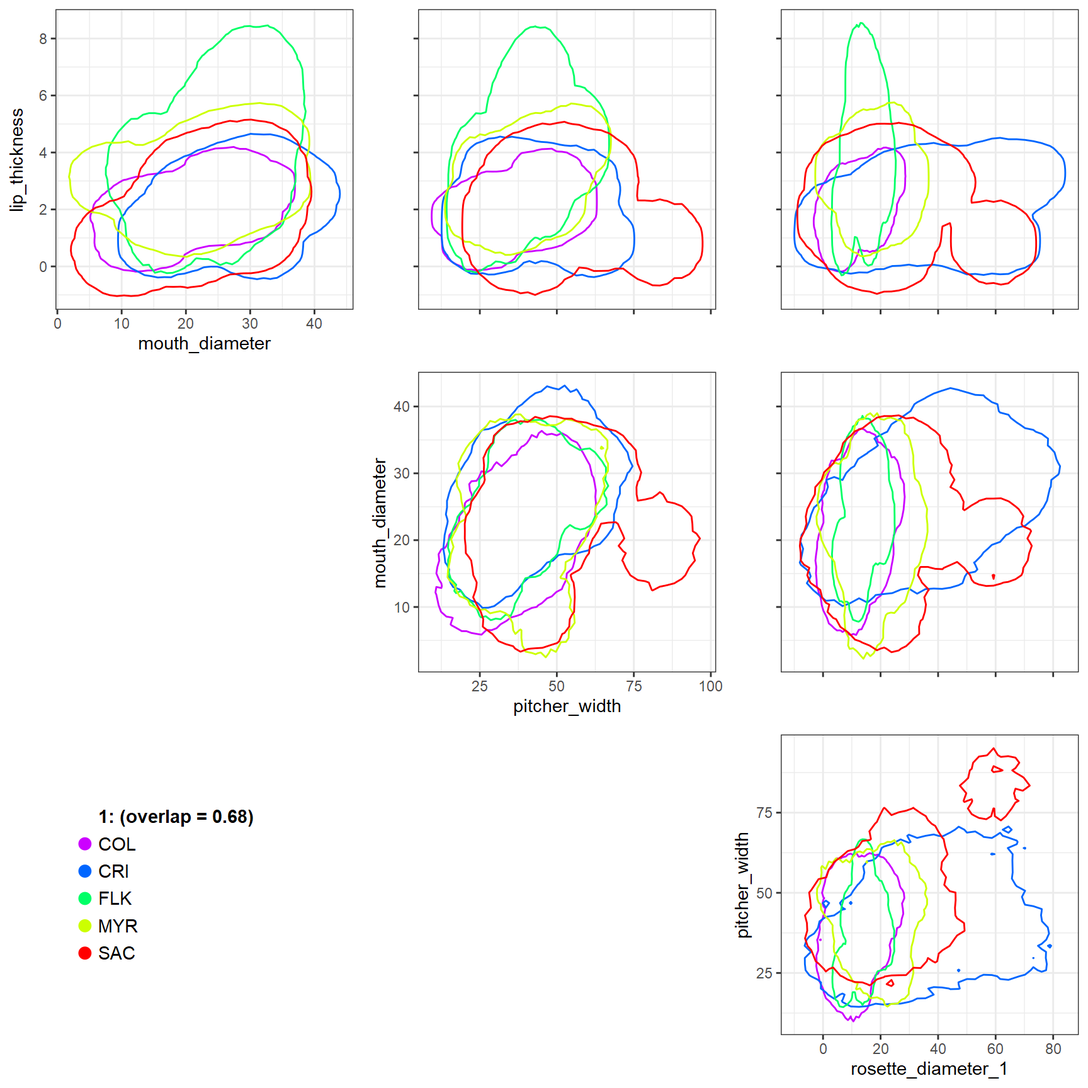
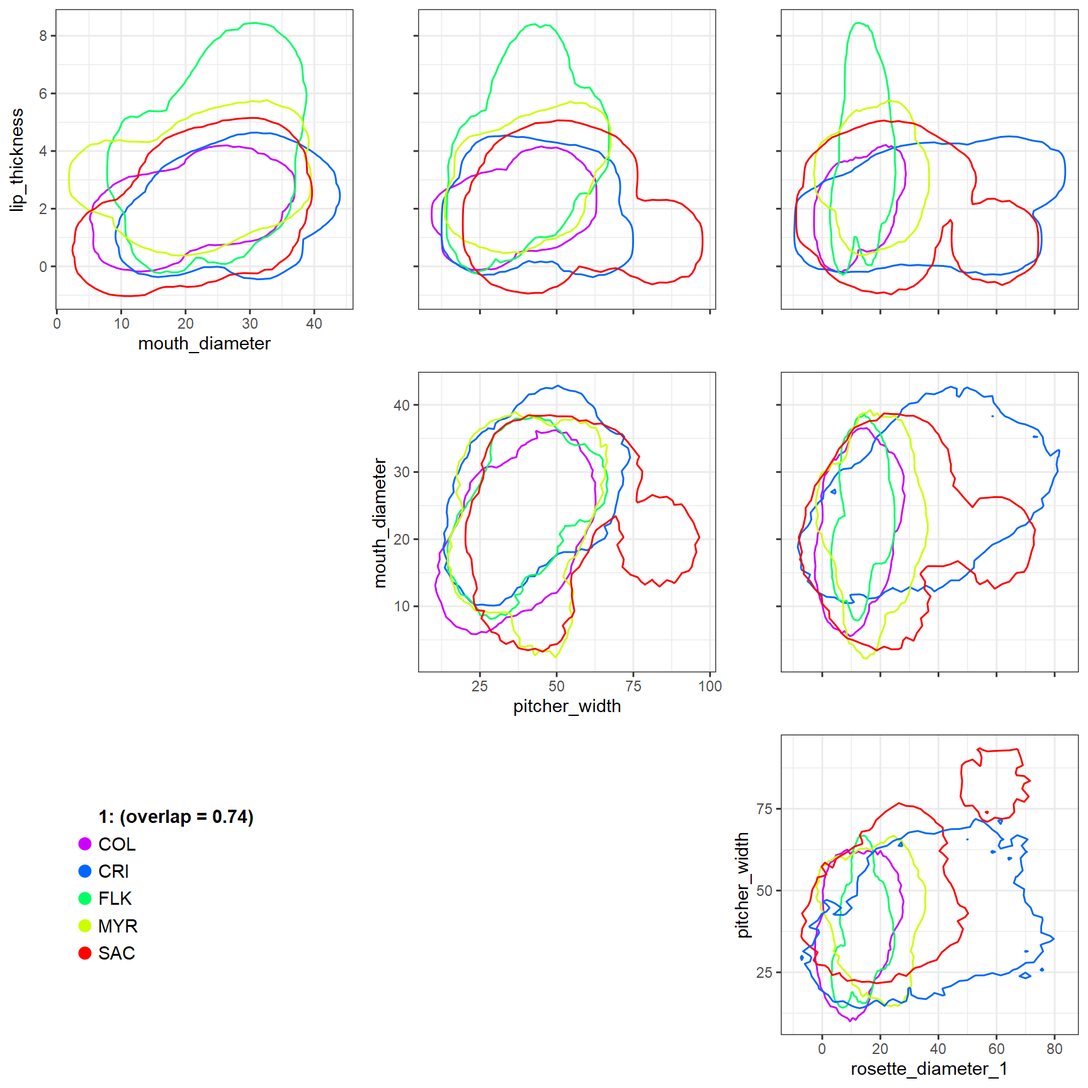
rebuild site with new updates

diff --git a/docs/articles/Ostats-multivariate.html b/docs/articles/Ostats-multivariate.html
@@ -76,7 +76,7 @@
   <div class="col-md-9 contents">
     <div class="page-header toc-ignore">
       <h1 data-toc-skip>Multivariate O-statistics</h1>
-                        <h4 class="author">Quentin D. Read, (INSERT OTHER AUTHORS)</h4>
+                        <h4 class="author">Quentin D. Read, (INSERT OTHER AUTHORS. Authors of this doc aren’t necessarily all package authors, just those who specifically contributed to this vignette.)</h4>
             
       
       
@@ -89,26 +89,10 @@
 <div class="sourceCode" id="cb1"><pre class="downlit sourceCode r">
 <code class="sourceCode R"><span class="kw"><a href="https://rdrr.io/r/base/library.html">library</a></span><span class="op">(</span><span class="va">Ostats</span><span class="op">)</span>
 <span class="fu"><a href="https://rdrr.io/r/utils/data.html">data</a></span><span class="op">(</span><span class="va">pitcher_traits</span><span class="op">)</span></code></pre></div>
-<div id="notes" class="section level1">
-<h1 class="hasAnchor">
-<a href="#notes" class="anchor"></a>Notes</h1>
-<ul>
-<li>Remove this section in the final version.</li>
-<li>Authors of this doc aren’t necessarily all package authors, just those who specifically contributed to this vignette.</li>
-<li>Outline of the vignette:
-<ul>
-<li>Explain multivariate O-stats, using hypervolumes</li>
-<li>Show a “toy” version of the pitcher plant dataset</li>
-<li>Run a few different variants of multivariate O-stats on them</li>
-<li>Create some plots</li>
-</ul>
-</li>
-</ul>
-</div>
 <div id="overview" class="section level1">
 <h1 class="hasAnchor">
 <a href="#overview" class="anchor"></a>Overview</h1>
-<p>This vignette is intended for users who are already familiar with the single-variable O-statistics we introduce in the first package vignette (LINK TO IT).</p>
+<p>This vignette is intended for users who are already familiar with the single-variable O-statistics we introduce in the <a href="Ostats-introduction.html">first package vignette</a>.</p>
 <p>1- Hutchinson: niche is n-dimensional hypervolume 2 - trait ecologists are interested in tradeoffs among traits or interactions among multiple traits 3 - the underlying math and theory here were worked out by Blonder et al. 4- Functions from their hypervolume package are used in Ostats</p>
 <p>(Isa is editing…) 1 - The occurrence range of a species can be determined by a set of factors which are called fundamental niche // The set of factors where the species can potentially occur is called the fundamental niche. However,[the fundamental niche can be reduced by competitors or predators] the presence of competitors or predators can reduce this space, causing the species to occur only in a fraction of that potential space. The set of factors where the species actually occurs is called the fundamental niche. Since the niche of a species can be determined by several abiotic and biotic variables, hutchinson (1952) determined the concept of Hypervolume as …. "". [The concepts of fundamental and realized niche were first proposed by Hutchinson in 1957,] [Since then] many approaches have been developed to measure hypervolume niche of a species (GIVE EXAMPLES - hypervolume). Because traits…… eclogists are intrestes in tradeoffs among traits or interactions among them. Here we…… the underlying math and theory here were worked out by Blonder et al…</p>
 </div>
@@ -270,10 +254,6 @@
 <div id="calculating-hypervolume-o-statistics" class="section level1">
 <h1 class="hasAnchor">
 <a href="#calculating-hypervolume-o-statistics" class="anchor"></a>Calculating hypervolume O-statistics</h1>
-<ul>
-<li>Calculate ostats multivariate</li>
-<li>Do a couple different versions with different arguments passed to hypervolume() to demonstrate the sensitivity of results to those args</li>
-</ul>
 <p>Here we calculate the univariate O-statistics for each of the pitcher traits separately, then a single multivariate O-statistic representing overlap of the trait hypervolumes.</p>
 <p>When estimating hypervolumes, as with any other multivariate analysis, it is critical to ensure that the hypervolume axes are not too highly correlated with one another. If traits are too highly correlated, the calculated hypervolume will not accurately represent the distribution in trait space. In this case, we resolve the issue by excluding a few of the traits with high correlations. You could also choose to use a variance maximization procedure like PCA instead.</p>
 <p>First ensure that the data are in the appropriate form for <code><a href="../reference/Ostats.html">Ostats()</a></code> and <code><a href="../reference/Ostats_multivariate.html">Ostats_multivariate()</a></code>. For this example we will remove individuals with incomplete data. Using <code><a href="https://rdrr.io/r/stats/cor.html">cor()</a></code> on the cleaned dataset, we can see the relatively high correlations among some of the traits.</p>
@@ -329,12 +309,14 @@
 <span class="co">#&gt;      rosette_diameter_1 pitcher_width mouth_diameter lip_thickness</span>
 <span class="co">#&gt; [1,]              -1.31         -1.96          -2.64         -1.81</span>
 <span class="co">#&gt; [2,]               3.62          4.36           2.31          3.21</span></code></pre></div>
+<div id="univariate-versus-multivariate-o-statistics" class="section level2">
+<h2 class="hasAnchor">
+<a href="#univariate-versus-multivariate-o-statistics" class="anchor"></a>Univariate versus multivariate O-statistics</h2>
 <p>Next calculate the univariate O-statistics for each of the four traits.</p>
 <div class="sourceCode" id="cb7"><pre class="downlit sourceCode r">
 <code class="sourceCode R"><span class="va">pitcher_univariate</span> <span class="op">&lt;-</span> <span class="fu"><a href="../reference/Ostats.html">Ostats</a></span><span class="op">(</span>traits <span class="op">=</span> <span class="va">pitcher_trait_matrix_scaled</span>,
                              plots <span class="op">=</span> <span class="fu"><a href="https://rdrr.io/r/base/factor.html">factor</a></span><span class="op">(</span><span class="fu"><a href="https://rdrr.io/r/base/rep.html">rep</a></span><span class="op">(</span><span class="fl">1</span>, <span class="fu"><a href="https://rdrr.io/r/base/nrow.html">nrow</a></span><span class="op">(</span><span class="va">pitcher_trait_matrix_scaled</span><span class="op">)</span><span class="op">)</span><span class="op">)</span>,
                              sp <span class="op">=</span> <span class="va">pitcher_sites</span>,
-                             random_seed <span class="op">=</span> <span class="fl">444</span>,
                              run_null_model <span class="op">=</span> <span class="cn">FALSE</span>
 <span class="op">)</span></code></pre></div>
 <p>Now calculate the multivariate O-statistic for the traits combined, using all default arguments. The <code>random_seed</code> is still used even in the absence of a null model because the hypervolumes are constructed with a stochastic algorithm.</p>
@@ -343,8 +325,11 @@
                                             plots <span class="op">=</span> <span class="fu"><a href="https://rdrr.io/r/base/factor.html">factor</a></span><span class="op">(</span><span class="fu"><a href="https://rdrr.io/r/base/rep.html">rep</a></span><span class="op">(</span><span class="fl">1</span>, <span class="fu"><a href="https://rdrr.io/r/base/nrow.html">nrow</a></span><span class="op">(</span><span class="va">pitcher_trait_matrix_scaled</span><span class="op">)</span><span class="op">)</span><span class="op">)</span>,
                                             sp <span class="op">=</span> <span class="va">pitcher_sites</span>,
                                             random_seed <span class="op">=</span> <span class="fl">333</span>,
-                                            run_null_model <span class="op">=</span> <span class="cn">FALSE</span>
+                                            run_null_model <span class="op">=</span> <span class="cn">FALSE</span>, 
+                                            hypervolume_args <span class="op">=</span> <span class="fu"><a href="https://rdrr.io/r/base/list.html">list</a></span><span class="op">(</span>method <span class="op">=</span> <span class="st">'box'</span><span class="op">)</span>,
+                                            hypervolume_set_args <span class="op">=</span> <span class="fu"><a href="https://rdrr.io/r/base/list.html">list</a></span><span class="op">(</span>num.points.max <span class="op">=</span> <span class="fl">1000</span><span class="op">)</span>
 <span class="op">)</span></code></pre></div>
+<p>Notice that <code><a href="../reference/Ostats_multivariate.html">Ostats_multivariate()</a></code> accepts additional arguments to <code><a href="https://rdrr.io/pkg/hypervolume/man/hypervolume.html">hypervolume::hypervolume()</a></code>, which it uses to construct the hypervolumes, and <code><a href="https://rdrr.io/pkg/hypervolume/man/hypervolume_set.html">hypervolume::hypervolume_set()</a></code>, which it uses to estimate the hypervolume overlaps. For example, the default method for hypervolume construction is <code>method = "gaussian"</code>, and the default maximum number of points to use for hypervolume overlap estimation is <code>num.points.max = 10^(3+sqrt(n))</code>, where <code>n</code> is the number of dimensions. In this vignette, we modified the defaults to use a different method (<code>"box"</code>) for hypervolume construction and fewer points (<code>1000</code>) for overlap estimation: <code>hypervolume_args = list(method = 'box'), hypervolume_set_args = list(num.points.max = 1000).</code> Those options speed processing time dramatically. See the help documentation for <code><a href="https://rdrr.io/pkg/hypervolume/man/hypervolume.html">hypervolume::hypervolume</a></code> and <code><a href="https://rdrr.io/pkg/hypervolume/man/hypervolume_set.html">hypervolume::hypervolume_set</a></code> for more details.</p>
 <p>Compare the univariate and multivariate O-statistics.</p>
 <div class="sourceCode" id="cb9"><pre class="downlit sourceCode r">
 <code class="sourceCode R"><span class="va">pitcher_univariate</span><span class="op">$</span><span class="va">overlaps_norm</span>
@@ -353,31 +338,87 @@
 
 <span class="va">pitcher_multivariate</span><span class="op">$</span><span class="va">overlaps_norm</span>
 <span class="co">#&gt;        [,1]</span>
-<span class="co">#&gt; 1 0.6818708</span></code></pre></div>
+<span class="co">#&gt; 1 0.7441601</span></code></pre></div>
 <p>The single multivariate O-statistic is not comparable to the univariate statistics because of differing dimensionality. Therefore we need to evaluate them against null models.</p>
-<p><strong>Here run the multivariate O-stats with different args to hypervolume, and with null models</strong></p>
+</div>
+<div id="null-models-for-multivariate-o-statistics" class="section level2">
+<h2 class="hasAnchor">
+<a href="#null-models-for-multivariate-o-statistics" class="anchor"></a>Null models for multivariate O-statistics</h2>
+<p>If <code>run_null_model</code> is set to <code>TRUE</code>, <code><a href="../reference/Ostats_multivariate.html">Ostats_multivariate()</a></code> will do <code>nperm</code> iterations of a null model, defaulting to <code>99</code>. Here we use a smaller number for demonstration purposes.</p>
+<p>First, for comparison purposes, run the null models for the univariate O-statistics for each of the four traits.</p>
+<div class="sourceCode" id="cb10"><pre class="downlit sourceCode r">
+<code class="sourceCode R"><span class="va">pitcher_univariate_withnull</span> <span class="op">&lt;-</span> <span class="fu"><a href="../reference/Ostats.html">Ostats</a></span><span class="op">(</span>traits <span class="op">=</span> <span class="va">pitcher_trait_matrix_scaled</span>,
+                                      plots <span class="op">=</span> <span class="fu"><a href="https://rdrr.io/r/base/factor.html">factor</a></span><span class="op">(</span><span class="fu"><a href="https://rdrr.io/r/base/rep.html">rep</a></span><span class="op">(</span><span class="fl">1</span>, <span class="fu"><a href="https://rdrr.io/r/base/nrow.html">nrow</a></span><span class="op">(</span><span class="va">pitcher_trait_matrix_scaled</span><span class="op">)</span><span class="op">)</span><span class="op">)</span>,
+                                      sp <span class="op">=</span> <span class="va">pitcher_sites</span>,
+                                      random_seed <span class="op">=</span> <span class="fl">666</span>,
+                                      run_null_model <span class="op">=</span> <span class="cn">TRUE</span>,
+                                      nperm <span class="op">=</span> <span class="fl">50</span>
+<span class="op">)</span></code></pre></div>
+<p>Next, do the same for the multivariate overlap.</p>
+<div class="sourceCode" id="cb11"><pre class="downlit sourceCode r">
+<code class="sourceCode R"><span class="va">pitcher_multivariate_withnull</span> <span class="op">&lt;-</span> <span class="fu"><a href="../reference/Ostats_multivariate.html">Ostats_multivariate</a></span><span class="op">(</span>traits <span class="op">=</span> <span class="va">pitcher_trait_matrix_scaled</span>,
+                                            plots <span class="op">=</span> <span class="fu"><a href="https://rdrr.io/r/base/factor.html">factor</a></span><span class="op">(</span><span class="fu"><a href="https://rdrr.io/r/base/rep.html">rep</a></span><span class="op">(</span><span class="fl">1</span>, <span class="fu"><a href="https://rdrr.io/r/base/nrow.html">nrow</a></span><span class="op">(</span><span class="va">pitcher_trait_matrix_scaled</span><span class="op">)</span><span class="op">)</span><span class="op">)</span>,
+                                            sp <span class="op">=</span> <span class="va">pitcher_sites</span>,
+                                            random_seed <span class="op">=</span> <span class="fl">555</span>,
+                                            run_null_model <span class="op">=</span> <span class="cn">TRUE</span>,
+                                            nperm <span class="op">=</span> <span class="fl">50</span>,
+                                            hypervolume_args <span class="op">=</span> <span class="fu"><a href="https://rdrr.io/r/base/list.html">list</a></span><span class="op">(</span>method <span class="op">=</span> <span class="st">'box'</span><span class="op">)</span>,
+                                            hypervolume_set_args <span class="op">=</span> <span class="fu"><a href="https://rdrr.io/r/base/list.html">list</a></span><span class="op">(</span>num.points.max <span class="op">=</span> <span class="fl">1000</span><span class="op">)</span>
+<span class="op">)</span></code></pre></div>
+<p>Comparing the standardized effect sizes, normalized to remove the effect of varying sample sizes across sites, we can see that three of the four individual traits have O-statistics significantly lower than the null expectation (lower than the 2.5%ile of the null distribution), while the multivariate O-statistic is not significantly different from the null expectation:</p>
+<table class="table">
+<thead><tr class="header">
+<th align="left">O-statistic</th>
+<th align="right">rosette diameter</th>
+<th align="right">pitcher width</th>
+<th align="right">mouth diameter</th>
+<th align="right">lip thickness</th>
+<th align="right">multivariate</th>
+</tr></thead>
+<tbody>
+<tr class="odd">
+<td align="left">observed</td>
+<td align="right">0.528</td>
+<td align="right">0.742</td>
+<td align="right">0.820</td>
+<td align="right">0.573</td>
+<td align="right">0.745</td>
+</tr>
+<tr class="even">
+<td align="left">null 2.5%</td>
+<td align="right">0.722</td>
+<td align="right">0.760</td>
+<td align="right">0.767</td>
+<td align="right">0.731</td>
+<td align="right">0.727</td>
+</tr>
+<tr class="odd">
+<td align="left">null 97.5%</td>
+<td align="right">0.866</td>
+<td align="right">0.875</td>
+<td align="right">0.888</td>
+<td align="right">0.869</td>
+<td align="right">0.786</td>
+</tr>
+</tbody>
+</table>
+</div>
 </div>
 <div id="visualizing-hypervolume-o-statistics" class="section level1">
 <h1 class="hasAnchor">
 <a href="#visualizing-hypervolume-o-statistics" class="anchor"></a>Visualizing hypervolume O-statistics</h1>
-<ul>
-<li>Show the ostats multivariate plot function</li>
-<li>Show a couple different plots to illustrate the effects of different arguments</li>
-<li>Give credit to hypervolume package for the plot.Hypervolumelist function</li>
-</ul>
 <p>We can visualize the overlap of the different hypervolumes using the function <code><a href="../reference/Ostats_multivariate_plot.html">Ostats_multivariate_plot()</a></code>. This function returns a list of plot objects, one for each community. Each plot displays an upper triangular matrix of panels, one for each pair of traits, with the cross-sections of the hypervolumes in those two dimensions, as well as the raw data points.</p>
 <p>For example, we can plot the overlap of the hypervolumes in 4-dimensional space formed by the individual traits of the pitcher plants at each site. Note that although we calculated the hypervolume overlaps on the scaled traits, we are plotting the hypervolumes using the unscaled trait axes. However, this requires us to set the argument <code>contour_level = 0.0001</code> because the unscaled hypervolumes have too low densities to plot using the default <code>contour_level = 0.01</code>.</p>
-<div class="sourceCode" id="cb10"><pre class="downlit sourceCode r">
+<div class="sourceCode" id="cb12"><pre class="downlit sourceCode r">
 <code class="sourceCode R"><span class="fu"><a href="../reference/Ostats_multivariate_plot.html">Ostats_multivariate_plot</a></span><span class="op">(</span>plots <span class="op">=</span> <span class="fu"><a href="https://rdrr.io/r/base/factor.html">factor</a></span><span class="op">(</span><span class="fu"><a href="https://rdrr.io/r/base/rep.html">rep</a></span><span class="op">(</span><span class="fl">1</span>, <span class="fu"><a href="https://rdrr.io/r/base/nrow.html">nrow</a></span><span class="op">(</span><span class="va">pitcher_trait_matrix</span><span class="op">)</span><span class="op">)</span><span class="op">)</span>,
                          sp <span class="op">=</span> <span class="va">pitcher_sites</span>,
                          traits <span class="op">=</span> <span class="va">pitcher_trait_matrix</span>,
                          contour_level <span class="op">=</span> <span class="fl">0.0001</span>,
-                         overlap_dat <span class="op">=</span> <span class="va">pitcher_multivariate</span>,
+                         overlap_dat <span class="op">=</span> <span class="va">pitcher_multivariate</span>
 <span class="op">)</span></code></pre></div>
 <p><img src="Ostats-multivariate_files/figure-html/default%20plot-1.png" width="864"></p>
 <p>We can customize the plot by supplying a color palette to the <code>colorvalues</code> argument (the default is a colorblind-friendly palette imported from <a href="https://cran.r-project.org/web/packages/viridis/vignettes/intro-to-viridis.html">viridis</a>), and add additional spacing around the hypervolume contours using the <code>axis_expansion</code> argument. The default value of this argument is <code>0.01</code>, or 1% in all directions. Finally, we can suppress plotting the raw data and only plot the contours using <code>plot_points = FALSE</code>.</p>
-<p>FIXME: in the actual function we should include argument to buffer the plot itself, not just the contour estimation.</p>
-<div class="sourceCode" id="cb11"><pre class="downlit sourceCode r">
+<div class="sourceCode" id="cb13"><pre class="downlit sourceCode r">
 <code class="sourceCode R"><span class="fu"><a href="../reference/Ostats_multivariate_plot.html">Ostats_multivariate_plot</a></span><span class="op">(</span>plots <span class="op">=</span> <span class="fu"><a href="https://rdrr.io/r/base/factor.html">factor</a></span><span class="op">(</span><span class="fu"><a href="https://rdrr.io/r/base/rep.html">rep</a></span><span class="op">(</span><span class="fl">1</span>, <span class="fu"><a href="https://rdrr.io/r/base/nrow.html">nrow</a></span><span class="op">(</span><span class="va">pitcher_trait_matrix</span><span class="op">)</span><span class="op">)</span><span class="op">)</span>,
                          sp <span class="op">=</span> <span class="va">pitcher_sites</span>,
                          traits <span class="op">=</span> <span class="va">pitcher_trait_matrix</span>,
@@ -388,6 +429,7 @@
                          plot_points <span class="op">=</span> <span class="cn">FALSE</span>
 <span class="op">)</span></code></pre></div>
 <p><img src="Ostats-multivariate_files/figure-html/custom%20plot-1.png" width="864"></p>
+<p>The code underlying <code><a href="../reference/Ostats_multivariate_plot.html">Ostats_multivariate_plot()</a></code> was adapted from the <code>plot.Hypervolumelist()</code> function in the <code>hypervolume</code> package.</p>
 </div>
 <div id="some-practical-notes" class="section level1">
 <h1 class="hasAnchor">

diff --git a/docs/reference/community_overlap.html b/docs/reference/community_overlap.html
@@ -141,6 +141,7 @@ be weighted by species abundances.</p>
   weight_type <span class='op'>=</span> <span class='st'>"hmean"</span>,
   randomize_weights <span class='op'>=</span> <span class='cn'>FALSE</span>,
   unique_values <span class='op'>=</span> <span class='cn'>NULL</span>,
+  raw <span class='op'>=</span> <span class='cn'>FALSE</span>,
   circular_args <span class='op'>=</span> <span class='fu'><a href='https://rdrr.io/r/base/list.html'>list</a></span><span class='op'>(</span><span class='op'>)</span>,
   density_args <span class='op'>=</span> <span class='fu'><a href='https://rdrr.io/r/base/list.html'>list</a></span><span class='op'>(</span><span class='op'>)</span>,
   hypervolume_set_args <span class='op'>=</span> <span class='fu'><a href='https://rdrr.io/r/base/list.html'>list</a></span><span class='op'>(</span><span class='op'>)</span>
@@ -196,6 +197,11 @@ within a community. This can be used to generate null models.</p></td>
 can take. Only used if <code>discrete = TRUE</code> and <code>circular = TRUE</code>.</p></td>
     </tr>
     <tr>
+      <th>raw</th>
+      <td><p>If <code>TRUE</code>, also return the raw individual pairwise overlaps
+used to calculate the community-level statistic. Default is <code>FALSE</code>.</p></td>
+    </tr>
+    <tr>
       <th>circular_args</th>
       <td><p>optional list of additional arguments to pass to
 <code><a href='https://rdrr.io/pkg/circular/man/circular.html'>circular</a></code>. Only used if <code>circular = TRUE</code> and
@@ -216,8 +222,10 @@ can take. Only used if <code>discrete = TRUE</code> and <code>circular = TRUE</c
 
     <h2 class="hasAnchor" id="value"><a class="anchor" href="#value"></a>Value</h2>
 
-    <p>The function returns overall species overlap for a community. At default, it returns the
-median of pairwise overlaps weighted by harmonic means of abundances for the community.</p>
+    <p>The function returns the O-statistic for the community as a numeric value. If
+<code>raw = TRUE</code>, instead a list is returned, where the first element <code>value</code> is
+the numeric value, and the second element <code>raw</code> is a data frame with all the raw
+pairwise overlaps.</p>
     <h2 class="hasAnchor" id="details"><a class="anchor" href="#details"></a>Details</h2>
 
     <p>The function evaluates weighted mean or median of overlaps of density
@@ -225,9 +233,9 @@ estimates of all species in a community taking complete cases with species abund
 greater than 1 from the dataset. The default calculates the median of pairwise overlaps
 for the whole community using the harmonic means of abundances of the species pairs as
 weights, which minimizes the effect of outliners and rare species.If the argument
-weight_type = "none", no weights are used for the calculation of mean/median. If
-weight_type = "mean", arithmetic means of abundances are used as weights. To change the
-output to mean, specify the argument output = "mean".</p>
+<code>weight_type = "none"</code>, no weights are used for the calculation of mean/median. If
+<code>weight_type = "mean"</code>, arithmetic means of abundances are used as weights. To change the
+output to mean, specify the argument <code>output = "mean"</code>.</p>
     <h2 class="hasAnchor" id="references"><a class="anchor" href="#references"></a>References</h2>
 
     <p>Read, Q. D. et al. Among-species overlap in rodent body size

diff --git a/docs/reference/pitcher_traits.html b/docs/reference/pitcher_traits.html
@@ -40,7 +40,7 @@
 
 
 <meta property="og:title" content="Sample Multivariate Trait Data (Pitcher Plants) — pitcher_traits" />
-<meta property="og:description" content="Insert documentation here. Lines should be no more than 80 characters long." />
+<meta property="og:description" content="These data represent trait information collected on carnivorous pitchers of the Northern Pitcher plant, *Sarracenia purpurea*, at 36 sites across the species native North American latitudinal range 30.197°N – 53.722°N (Freedman et al. 2021). Pitcher traits measured include orthogonal rosette diameters, pitcher length, pitcher width, keel width, mouth diameter, and lip thickness. See Ellison and Gotelli (2002) for a diagram illustrating traits measured." />
 
 
 
@@ -124,7 +124,7 @@
     </div>
 
     <div class="ref-description">
-    <p>Insert documentation here. Lines should be no more than 80 characters long.</p>
+    <p>These data represent trait information collected on carnivorous pitchers of the Northern Pitcher plant, *Sarracenia purpurea*, at 36 sites across the species native North American latitudinal range 30.197°N – 53.722°N (Freedman et al. 2021). Pitcher traits measured include orthogonal rosette diameters, pitcher length, pitcher width, keel width, mouth diameter, and lip thickness. See Ellison and Gotelli (2002) for a diagram illustrating traits measured.</p>
     </div>
 
     <pre class="usage"><span class='va'>pitcher_traits</span></pre>
@@ -135,7 +135,8 @@
     <p>An object of class <code>data.frame</code> with 785 rows and 9 columns.</p>
     <h2 class="hasAnchor" id="references"><a class="anchor" href="#references"></a>References</h2>
 
-    <p>Insert reference here, if there is a publication. Otherwise delete this line.</p>
+    <p>Ellison, A.M., and N.J. Gotelli. 2002. Nitrogen availability alters the expression of carnivory in the Northern Pitcher Plant, *Sarracenia purpurea*. *Proceedings of the National Academy of Science* 99(7):4409-12.
+Freedman, Z.B., A. McGrew, B. Baiser, M. Besson, D. Gravel, T. Poisot, S. Record, L.B. Trotta, and N.J. Gotelli. 2021. Environment-host-microbial interactions shape the *Sarracenia purpurea* microbiome at the continental scale. *Ecology*, 102(5):e03308.</p>
 
   </div>
   <div class="col-md-3 hidden-xs hidden-sm" id="pkgdown-sidebar">
